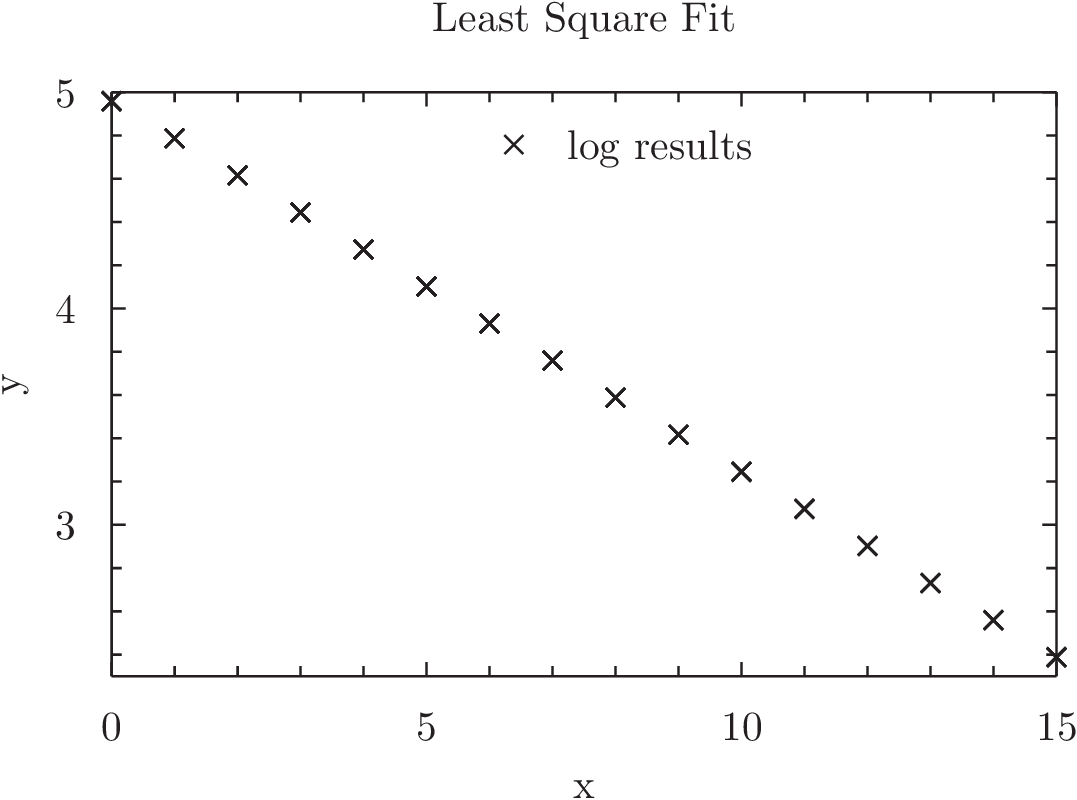
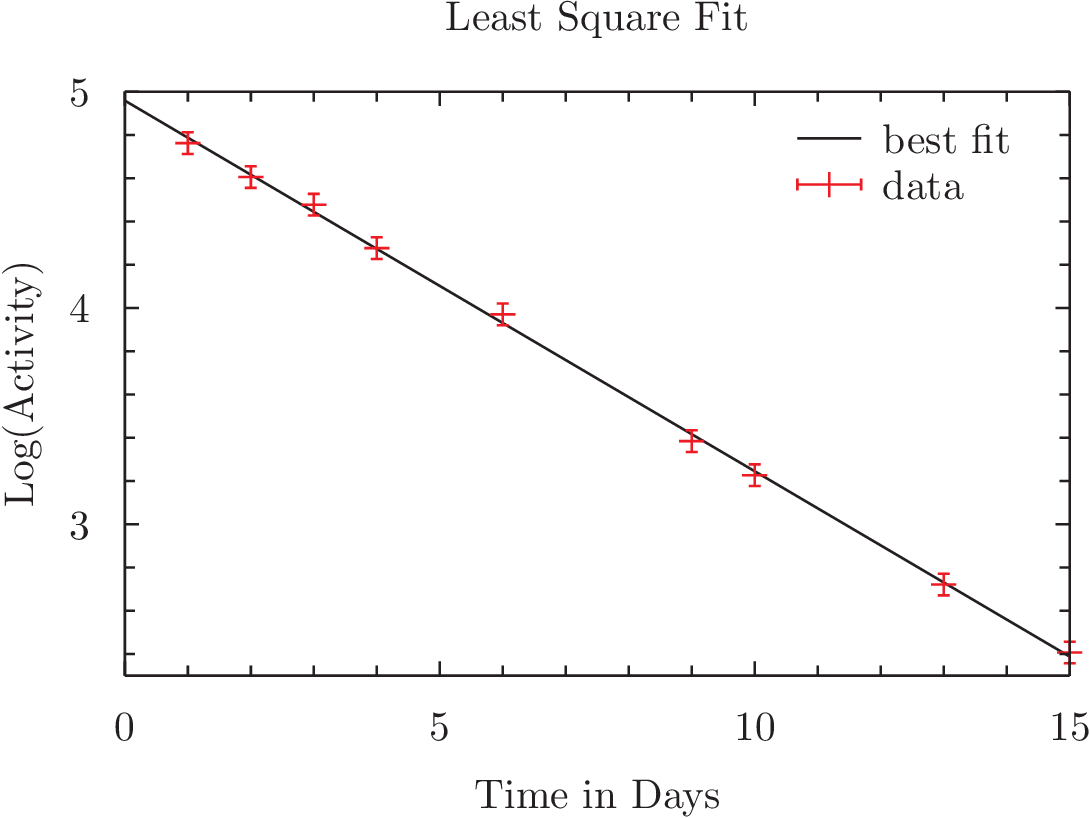
finished a ask help for b

diff --git a/homeworks/least_square/main.c b/homeworks/least_square/main.c
@@ -83,7 +83,12 @@ int main(){
 	print_vector("c=",c);
 	
 	//the outfiles is very full so put into a new txt file to plot to check numbers are right
-	FILE* plot = fopen("LSF.out.txt","w");
+	FILE* fit = fopen("LSF.out.txt","w");
+	FILE* plot = fopen("plot.out.txt","w");
+	int p = 9;
+	for(int i=0;i<p;i++){
+		fprintf(plot,"%10g %10g %10g\n",gsl_vector_get(t ,i),gsl_vector_get(y,i), gsl_vector_get(dy,i));
+	}
 	int o = 100;
 	gsl_vector* mt=gsl_vector_alloc(o);
 	gsl_vector* my=gsl_vector_alloc(o);
@@ -92,7 +97,7 @@ int main(){
 		gsl_vector_set(mt,i,16*i/(o-1));
 		gsl_vector_set(my,i,gsl_vector_get(c,0)+gsl_vector_get(mt,i)*gsl_vector_get(c,1));
 
-		fprintf(plot, "%10g %10g\n",gsl_vector_get(mt,i), gsl_vector_get(my,i));
+		fprintf(fit, "%10g %10g\n",gsl_vector_get(mt,i), gsl_vector_get(my,i));
 	}
 
 
